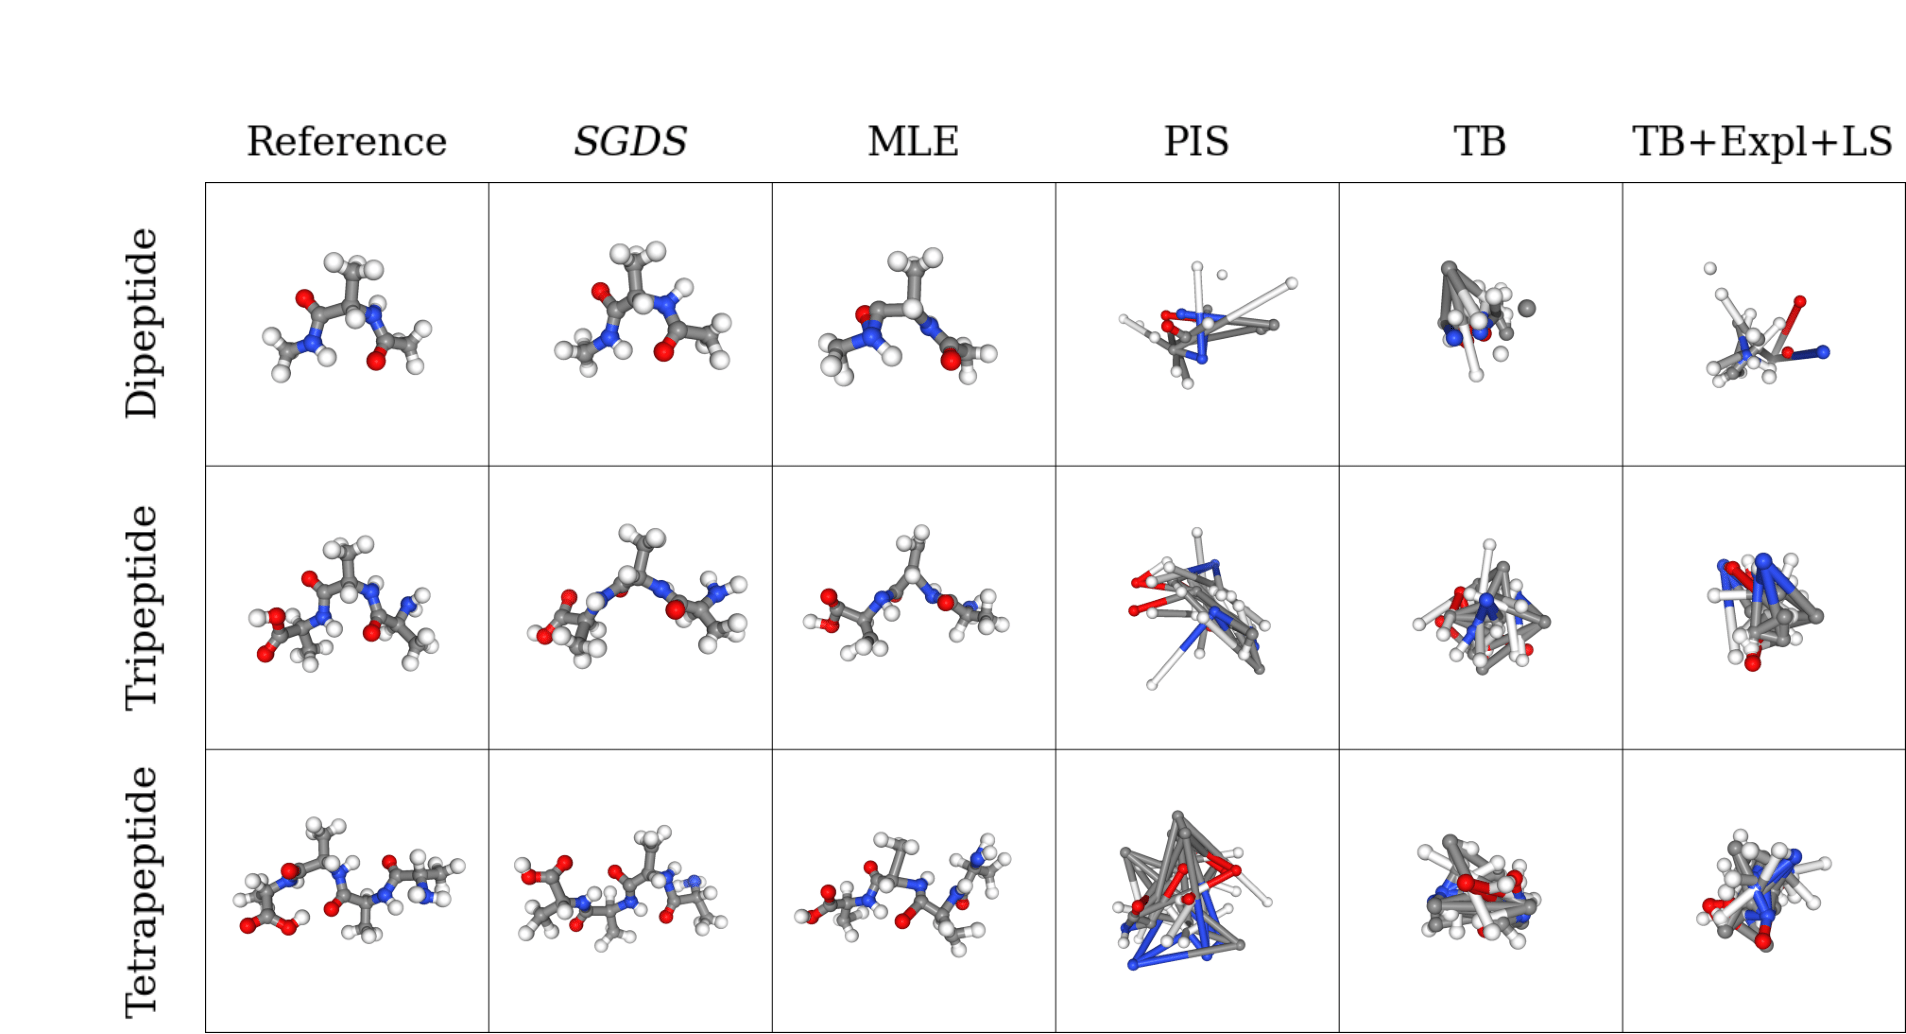
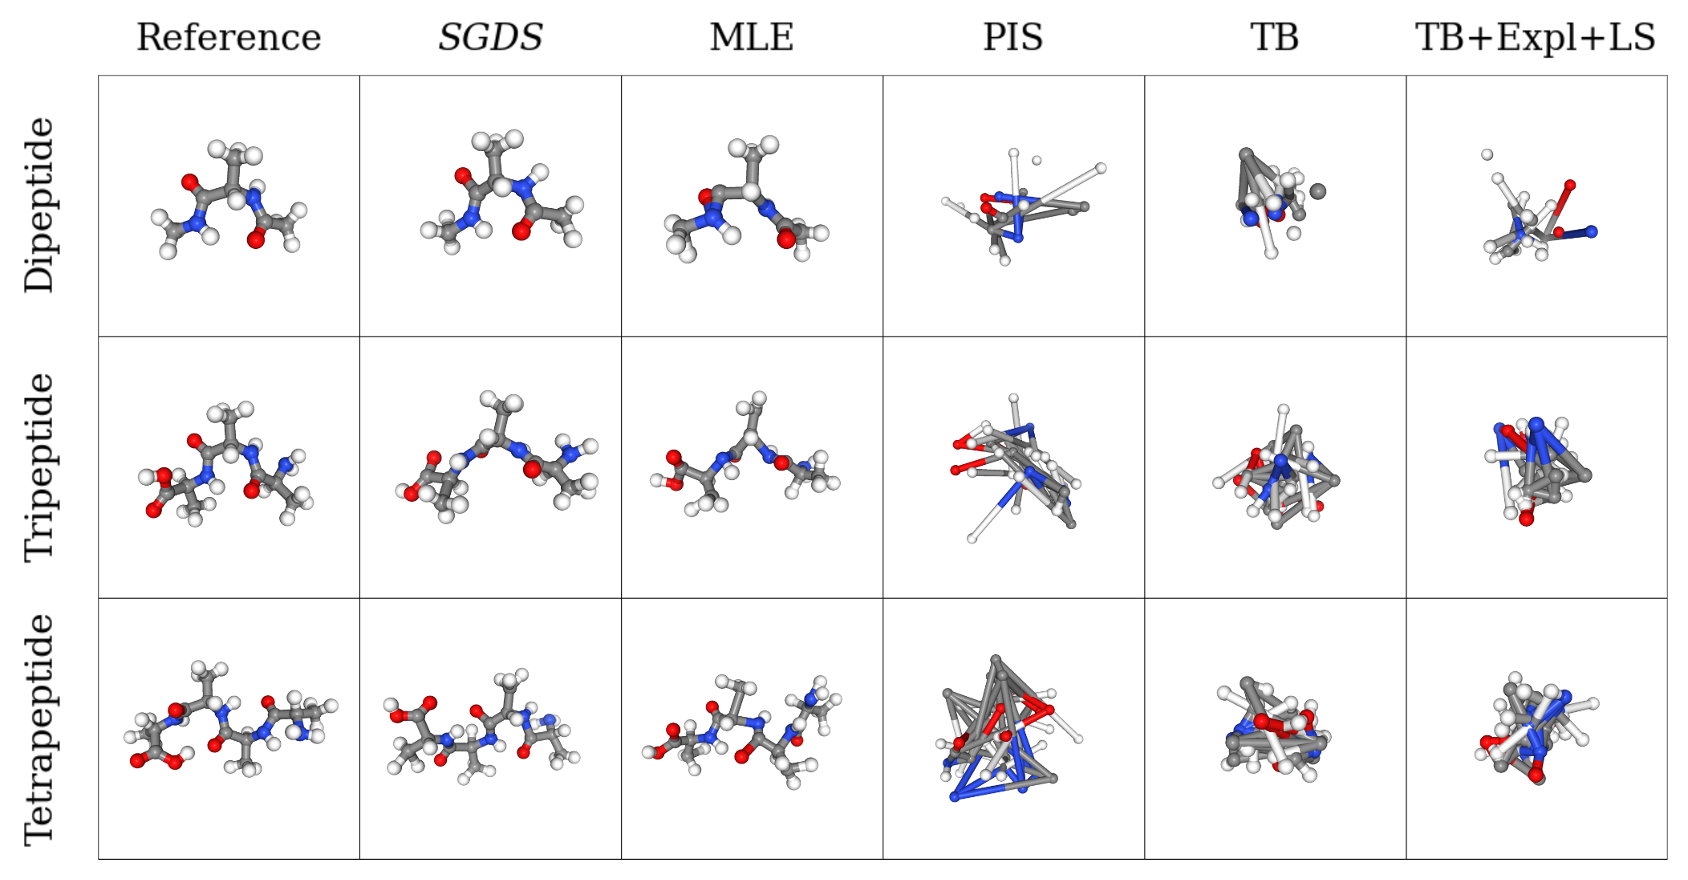
decorate README

diff --git a/README.md b/README.md
@@ -3,7 +3,7 @@
 [![arXiv](https://img.shields.io/badge/arXiv-2505.19552-b31b1b.svg)](https://arxiv.org/abs/2505.19552)
 
 <p align="center">
-  <img src="assets/peptides.png" width="30%" />
+  <img src="assets/peptides.png" width="90%" />
 </p>
 
 This directory provides implementations and experiments for the Lenard-Jones potential and Alanine Dipeptide systems. It includes filling buffer by first round searcher, training routines, and evaluation scripts to reproduce our results.
